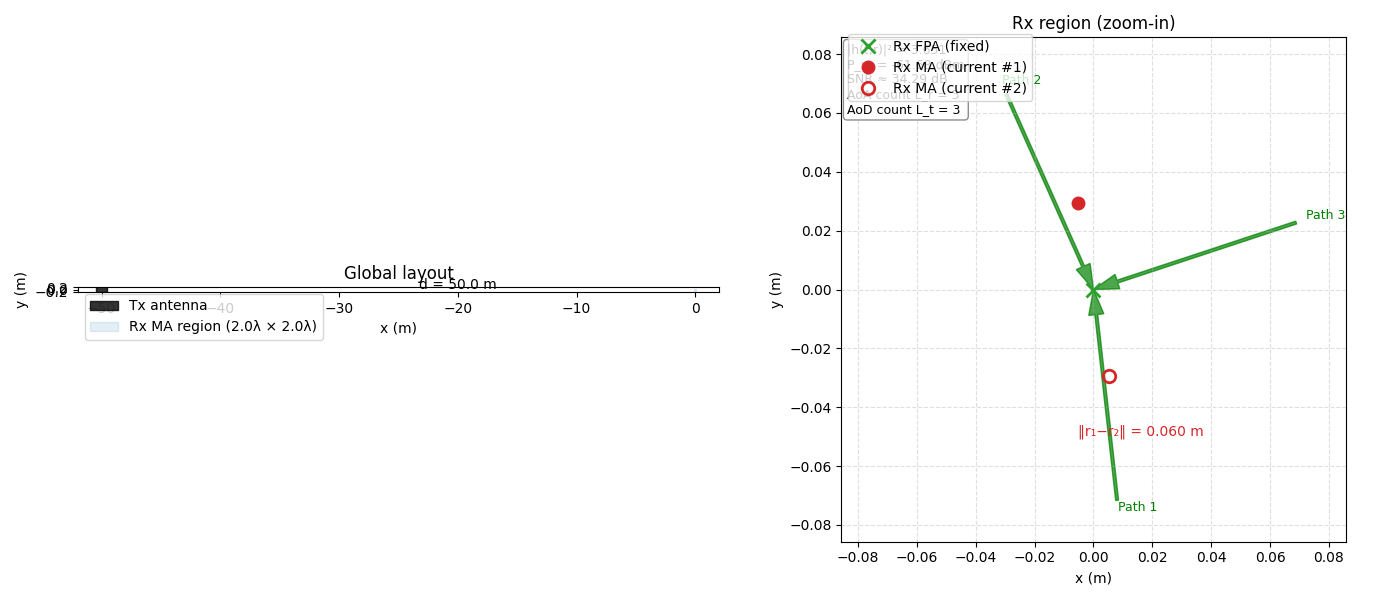
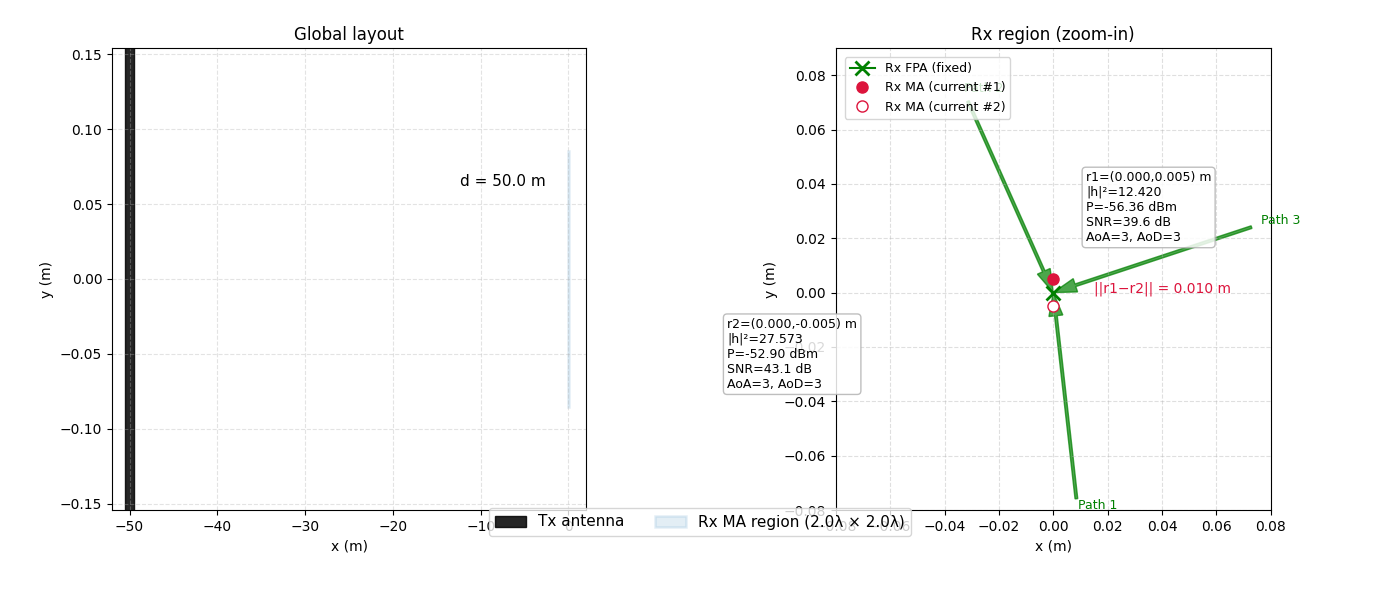
received-power-add-random

diff --git a/run_simulation.py b/run_simulation.py
@@ -132,194 +132,13 @@ def compare_ma_vs_fpa(power_map_dbm, g_t_fixed, channel_env, path_loss_db):
     print(f"MA (영역 내 최대) 수신 전력: {power_ma_max_dbm:.2f} dBm")
     print(f"성능 향상 (MA Gain): {power_ma_max_dbm - power_fpa_dbm:.2f} dB")
 
-# --- rx = 1 ---
-# def plot_system_layout(r_example_pos, channel_env, summary_text=None):
-#     print(f"\n[시각화 1: 시스템 레이아웃]")
-#
-#     theta_t, phi_t, theta_r, phi_r, sigma_matrix = channel_env
-#     L_r = cfg.lr
-#     A_meters = cfg.A
-#     D_tx_rx = cfg.d_tx_rx
-#     half_A = A_meters / 2
-#
-#     fig, (axL, axR) = plt.subplots(
-#         1, 2, figsize=(14, 6),
-#         gridspec_kw={'width_ratios': [1.6, 1]}
-#     )
-#
-#     # ---------- (좌) 글로벌 배치 (Global Layout) ----------
-#     axL.plot(-D_tx_rx, 0, 'ks', markersize=10, label='Tx antenna')
-#     axL.text(-D_tx_rx, 0.15, 'Tx', ha='center') # 'Tx' 텍스트 표시
-#
-#
-#     rx_box = plt.Rectangle((-half_A, -half_A), A_meters, A_meters,
-#                            edgecolor='tab:blue', facecolor='none', lw=1.8,
-#                            label=f'Rx MA region ({cfg.A_normalized}λ × {cfg.A_normalized}λ)')
-#     axL.add_patch(rx_box)
-#
-#     axL.plot(cfg.FPA_pos_fixed[0], cfg.FPA_pos_fixed[1], 'gx', ms=10, mew=2, label='Rx FPA (fixed)')
-#     axL.plot(r_example_pos[0], r_example_pos[1], 'ro', ms=8, label='Rx MA (current)')
-#
-#     axL.annotate(f'd = {D_tx_rx:.1f} m',
-#                  xy=(-D_tx_rx, 0), xytext=(-D_tx_rx/2, -0.1*A_meters),
-#                  arrowprops=dict(arrowstyle='<->'), ha='center')
-#
-#     axL.set_title('Global layout')
-#     axL.set_xlabel('x (m)'); axL.set_ylabel('y (m)')
-#     axL.set_xlim(-D_tx_rx - A_meters, A_meters)
-#     ylim = cfg.d_tx_rx * 0.05
-#     axL.set_ylim(-ylim, ylim)
-#     axL.set_aspect('equal', adjustable='box')
-#     axL.grid(True, ls=':')
-#     axL.legend(loc='lower right')
-#
-#     v_aoa = mm.aoa_unit_vectors(theta_r, phi_r)
-#     pair_info = mm.pairwise_path_metrics(v_aoa)
-#
-#     # ---------- (우) Rx 영역 줌인 (Rx Region Zoom-in) ----------
-#     axR.add_patch(plt.Rectangle((-half_A, -half_A), A_meters, A_meters,
-#                                 edgecolor='tab:blue', facecolor='none', lw=1.8))
-#
-#     axR.plot(cfg.FPA_pos_fixed[0], cfg.FPA_pos_fixed[1], 'gx', ms=10, mew=2, label='Rx FPA (fixed)')
-#     axR.plot(r_example_pos[0], r_example_pos[1], 'ro', ms=8, label='Rx MA (current)')
-#
-#     d_rx = np.linalg.norm(r_example_pos - cfg.FPA_pos_fixed)
-#     axR.text(0.02, 0.98, f'‖r_MA - r_FPA‖ = {d_rx:.3f} m',
-#              transform=axR.transAxes, ha='left', va='top',
-#              bbox=dict(boxstyle='round,pad=0.3', fc='white', ec='0.7'))
-#
-#     arrow_length = half_A * 0.9
-#     for i in range(L_r):
-#         dx = -arrow_length * np.cos(theta_r[i]) * np.sin(phi_r[i])
-#         dy = -arrow_length * np.sin(theta_r[i])
-#         if np.hypot(dx, dy) < 1e-6:
-#             dx = -arrow_length * 0.707; dy = -arrow_length * 0.707
-#         axR.arrow(r_example_pos[0] - dx, r_example_pos[1] - dy, dx, dy,
-#                   head_width=half_A*0.06, head_length=half_A*0.1,
-#                   fc='green', ec='green', alpha=0.7, length_includes_head=True)
-#
-#         axR.text(r_example_pos[0] - 1.05*dx, r_example_pos[1] - 1.05*dy,
-#                  f'Path {i+1}', color='green', fontsize=9)
-#
-#     axR.set_title('Rx region (zoom-in)')
-#     axR.set_xlim(-half_A, half_A); axR.set_ylim(-half_A, half_A)
-#     axR.set_xlabel('x (m)'); axR.set_ylabel('y (m)')
-#     axR.set_aspect('equal', adjustable='box'); axR.grid(True, ls=':')
-#     axR.legend(loc='upper right')
-#
-#     if summary_text:
-#         axR.text(0.02, 0.98, summary_text, transform=axR.transAxes,
-#                  va='top', ha='left',
-#                  bbox=dict(boxstyle='round,pad=0.35', fc='white', ec='0.75')) # 텍스트 박스 스타일 지정
-#
-#     plt.tight_layout()
-#     plt.show()
-#
-#     if pair_info:
-#         print("\n[Pairwise AoA metrics at Rx]")
-#         for p in pair_info:
-#             print(f"  Path {p['i']+1} ↔ Path {p['j']+1}: "
-#                   f"euclid={p['euclid']:.4f}, angle={p['angle_deg']:.2f}°")
-
-# --- legend 수정 ---
-# def plot_system_layout(r_example_pos, channel_env, summary_text=None,
-#                        show_two_rx=True, offset_lambda=0.35, angle_deg=10.0):
-#     """
-#     show_two_rx=True이면 Rx 영역에 '현재 MA' 빨간 점을 2개 찍고
-#     두 점 사이 거리도 표시한다.
-#     """
-#     import numpy as np
-#     theta_t, phi_t, theta_r, phi_r, sigma_matrix = channel_env
-#     L_r = cfg.lr
-#     A_meters = cfg.A
-#     D_tx_rx = cfg.d_tx_rx
-#
-#     fig = plt.figure(figsize=(14, 6))
-#     gs = fig.add_gridspec(1, 2, width_ratios=[1.1, 1.0])
-#     ax0 = fig.add_subplot(gs[0, 0])  # Global layout
-#     ax1 = fig.add_subplot(gs[0, 1])  # Rx zoom-in
-#
-#     half_A = A_meters / 2
-#
-#     # ---------- Left (Global) ----------
-#     ax0.add_patch(plt.Rectangle((-D_tx_rx-0.5, -0.4), 1.0, 0.8,
-#                                 edgecolor='k', facecolor='k', alpha=0.8, label='Tx antenna'))
-#     # Rx 지역 사각형 (전역좌표에서 원점 근처)
-#     ax0.add_patch(plt.Rectangle((-half_A, -half_A), A_meters, A_meters,
-#                                 edgecolor='tab:blue', facecolor='tab:blue', alpha=0.12,
-#                                 label=f'Rx MA region ({cfg.A_normalized:.1f}λ × {cfg.A_normalized:.1f}λ)'))
-#     # 거리지시
-#     ax0.annotate(f"d = {D_tx_rx:.1f} m",
-#                  xy=(-D_tx_rx * 0.15, +0.06 * half_A), ha='center', va='bottom', fontsize=11)
-#
-#     ax0.set_xlim(-D_tx_rx - 2, 2)
-#     ax0.set_ylim(-2.8 * half_A, 2.8 * half_A)
-#     ax0.set_yticks([])
-#     ax0.set_ylabel('')
-#     ax0.set_xlabel('x (m)')
-#     ax0.set_title('Global layout')
-#     ax0.set_aspect('equal')
-#     ax0.grid(True, ls='--', alpha=0.35)
-#
-#     ax0.legend(loc='upper left', bbox_to_anchor=(0.0, -0.22),
-#                   frameon=True, fontsize=11)
-#
-#     plt.subplots_adjust(left=0.08, right=0.82, top=0.92, bottom=0.22, wspace=0.30)
-#
-#     # ---------- Right (Rx zoom-in) ----------
-#     # Rx 중심, FPA(초록 X)
-#     ax1.plot(cfg.FPA_pos_fixed[0], cfg.FPA_pos_fixed[1], 'x', ms=10, mew=2, color='tab:green', label='Rx FPA (fixed)')
-#
-#     # 빨간 점: 1개 또는 2개
-#     if show_two_rx:
-#         r1, r2 = two_rx_positions(center_xy=cfg.FPA_pos_fixed, lam=cfg.lambda_wave,
-#                                   offset_lambda=offset_lambda, angle_deg=angle_deg)
-#         ax1.plot(r1[0], r1[1], 'o', ms=9, color='tab:red', label='Rx MA (current #1)')
-#         ax1.plot(r2[0], r2[1], 'o', ms=9, mfc='none', mec='tab:red', mew=2, label='Rx MA (current #2)')
-#         # 두 점 사이 거리
-#         d12 = np.linalg.norm(r1 - r2)
-#         ax1.text(min(r1[0], r2[0]), min(r1[1], r2[1]) - 0.02,
-#                  f"‖r₁−r₂‖ = {d12:.3f} m", color='tab:red')
-#     else:
-#         ax1.plot(r_example_pos[0], r_example_pos[1], 'o', ms=9, color='tab:red', label='Rx MA (current)')
-#
-#     # 수신 AoA 화살표(초록)
-#     arrow_len = half_A * 0.85
-#     for i in range(L_r):
-#         dx = -arrow_len * np.cos(theta_r[i]) * np.sin(phi_r[i])
-#         dy = -arrow_len * np.sin(theta_r[i])
-#         # 화살
-#         ax1.arrow(cfg.FPA_pos_fixed[0] - dx, cfg.FPA_pos_fixed[1] - dy, dx, dy,
-#                   head_width=half_A*0.06, head_length=half_A*0.1,
-#                   fc='green', ec='green', alpha=0.7, length_includes_head=True)
-#         ax1.text(cfg.FPA_pos_fixed[0] - dx*1.05, cfg.FPA_pos_fixed[1] - dy*1.05,
-#                  f'Path {i+1}', color='green', fontsize=9)
-#
-#     # 요약 박스(겹치지 않게 좌상단)
-#     if summary_text:
-#         ax1.text(-half_A+0.002, half_A-0.002, summary_text,
-#                  va='top', ha='left', fontsize=9,
-#                  bbox=dict(boxstyle='round', fc='white', ec='0.5', alpha=0.9))
-#
-#     ax1.set_xlim(-half_A, half_A)
-#     ax1.set_ylim(-half_A, half_A)
-#     ax1.set_aspect('equal')
-#     ax1.set_xlabel('x (m)')
-#     ax1.set_ylabel('y (m)')
-#     ax1.set_title('Rx region (zoom-in)')
-#     # 범례도 축 밖으로
-#     ax1.legend(loc='upper left', bbox_to_anchor=(1.02, 1.0),
-#                      borderaxespad=0., frameon=True, fontsize=9, ncol=1)
-#     ax1.grid(True, ls='--', alpha=0.4)
-#     plt.tight_layout()
-#     plt.show()
-
 def plot_system_layout_two_rx(r1, r2, g_t_fixed, channel_env, path_loss_db, summary_text=None):
     theta_t, phi_t, theta_r, phi_r, _ = channel_env
     Lr, Lt = len(theta_r), len(theta_t)
 
     A_meters = cfg.A
     half_A = A_meters / 2
+    pad = 0.08
 
     # 1) Figure/axes
     fig = plt.figure(figsize=(14, 6))
@@ -360,7 +179,8 @@ def plot_system_layout_two_rx(r1, r2, g_t_fixed, channel_env, path_loss_db, summ
     ax1.set_title('Rx region (zoom-in)')
     ax1.set_xlabel('x (m)'); ax1.set_ylabel('y (m)')
     ax1.set_aspect('equal')
-    ax1.set_xlim(-0.08, 0.08); ax1.set_ylim(-0.08, 0.09)
+    ax1.set_xlim(-half_A*(1+pad), +half_A*(1+pad))
+    ax1.set_ylim(-half_A*(1+pad), +half_A*(1+pad))
     ax1.grid(True, ls='--', alpha=0.4)
 
     # FPA 위치 표시
@@ -456,7 +276,3 @@ def rx_metrics(r_pos, g_t_fixed, channel_env, path_loss_db, BW=20e6, NF_dB=5.0):
         "AoD_deg": np.degrees(theta_t),
     }
 
-def make_two_rx_positions(center, offset):
-    r1 = center + np.array([0.0, +offset])
-    r2 = center + np.array([0.0, -offset])
-    return r1, r2

diff --git a/ma_model_tx2.py b/ma_model_tx2.py
@@ -194,3 +194,25 @@ def plot_two_rx_positions(tx_pos, fc, Pt_dBm, region_center=None):
     ax.legend()
     plt.grid(True)
     plt.show()
+
+def make_two_rx_positions_random_square(center,
+                                        region_size_m=None,
+                                        min_sep_ratio=0.2,
+                                        seed=None):
+
+    rng = np.random.default_rng(seed)
+    A = cfg.A if region_size_m is None else float(region_size_m)
+    half_A = A / 2.0
+
+    # 최소 분리 거리
+    min_sep = min_sep_ratio * A
+
+    # 반복적으로 샘플해서 조건 만족할 때까지
+    for _ in range(10_000):
+        # [-half_A, half_A] 범위에서 균일
+        r1 = center + rng.uniform(low=-half_A, high=half_A, size=2)
+        r2 = center + rng.uniform(low=-half_A, high=half_A, size=2)
+        if np.linalg.norm(r1 - r2) >= min_sep:
+            return r1, r2
+
+    return r1, r2

diff --git a/main.py b/main.py
@@ -2,6 +2,7 @@ import config as cfg
 # import ma_model_tx1 as mm
 import ma_model_tx2 as mm
 import run_simulation as rs
+import numpy as np
 
 
 # --- 메인 실행 ---
@@ -32,7 +33,11 @@ if __name__ == "__main__":
     # --- 3. 2D 맵 시뮬레이션 ---
     r_example_used, summary = rs.run_single_point_analysis(g_t_fixed, channel_env, path_loss_db)
     # rs.plot_system_layout(r_example_used, channel_env, summary_text=summary)
-    r1, r2 = rs.make_two_rx_positions(cfg.FPA_pos_fixed, offset=0.005)
+    center = np.array([0.0, 0.0])
+    r1, r2 = mm.make_two_rx_positions_random_square(center,
+                                           region_size_m=None,
+                                           min_sep_ratio=0.2,
+                                           seed=2025)
 
     rs.plot_system_layout_two_rx(r1, r2, g_t_fixed, channel_env, path_loss_db)
 
